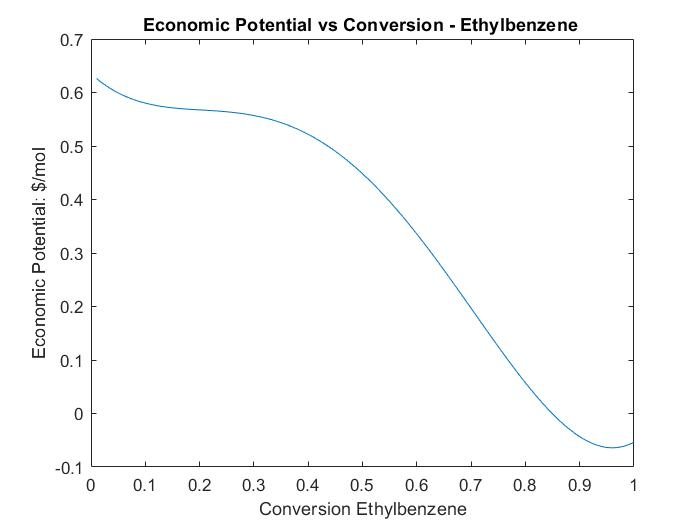
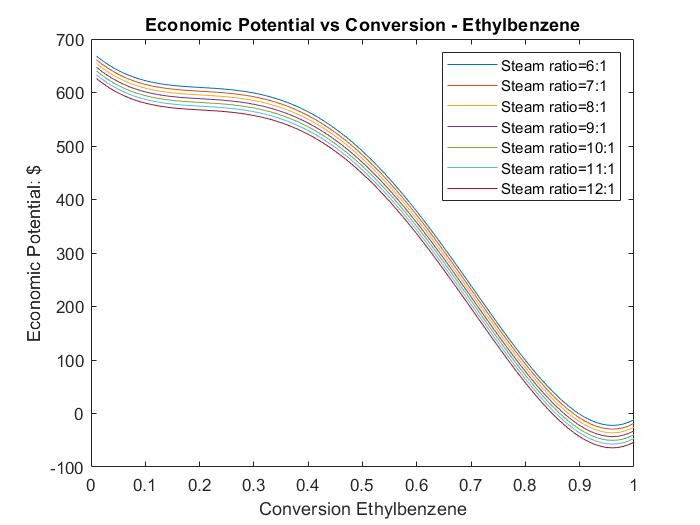
level 3 economic potential

diff --git a/Task3/level3EP.m b/Task3/level3EP.m
@@ -1,0 +1,72 @@
+
+conv = [];
+EP12 = [];
+EP = [];
+
+as = [0.9991, -0.61 3.13 -6.83 3.78];
+ab = [0.0006 0.086 -0.158 0.267 0];
+at = [0.0006 0.415 -2.48 5.84 -3.437];
+
+
+for M = 6:1:12
+    EP3 = [];
+    conv = [];
+    for x = 0.01:0.01:1
+
+    ss = as(1) +as(2)*x + as(3)*x*x + as(4)*x*x*x+ as(5)*x*x*x*x;
+    sb = ab(1) +ab(2)*x + ab(3)*x*x + ab(4)*x*x*x+ ab(5)*x*x*x*x;
+    st = at(1) +at(2)*x + at(3)*x*x + at(4)*x*x*x+ at(5)*x*x*x*x;
+    
+    Peb = 120/ss;
+    Feed = Peb*1.02;
+    PS = 120;
+    PB = Peb*sb + 0.01*Peb;
+    PE = Peb*sb;
+    PT = Peb*st + 0.01*Peb;
+    PM = Peb*st;
+    PH = PS - PM;
+
+    Rg = Feed*(1-x)/x;
+    CA_cost = Rg^0.82;
+    CO_cost = Rg;
+    RA_cost = (M/(x*1))^0.33 * (log(1/(1-x)))^0.33;
+
+
+    EP2 = 23*PS + 9*PB + 8.5*PT + 4*(0.123*PH + 0.383*PM + 0.596*PE) - 100*16 -M*100*0.07 ;
+%     EP12 = [EP12; EPk-1200*0.07];
+%     EP3i = EP2-CA_cost-CO_cost-RA_cost;
+    EP3i = EP2;
+    EP3 = [EP3; EP3i];
+    conv = [conv; x];
+    
+    end
+    
+    plot(conv, EP3)
+    Legend{M-5}=strcat('Steam ratio= ', num2str(M),':1');
+    hold on
+    
+end 
+
+legend(Legend,'Location','northeast')
+title('Economic Potential Level 3 vs Conversion - Ethylbenzene')
+xlabel('Conversion Ethylbenzene')
+ylabel('Economic Potential Level 3: $')
+
+% figure
+% plot(conv, EP12)
+% title('Economic Potential vs Conversion - Ethylbenzene for Steam ratio of 12:1')
+% xlabel('Conversion Ethylbenzene')
+% ylabel('Economic Potential: $')
+% 
+% figure
+% Legend=cell(7,1);
+% for i = 6:1:12 
+%     plot(conv, EP2 - i*100*0.07)
+%     Legend{i-5}=strcat('Steam ratio= ', num2str(i),':1');
+%     hold on
+% end
+% legend(Legend,'Location','northeast')
+% title('Economic Potential vs Conversion - Ethylbenzene')
+% xlabel('Conversion Ethylbenzene')
+% ylabel('Economic Potential: $')
+ 
